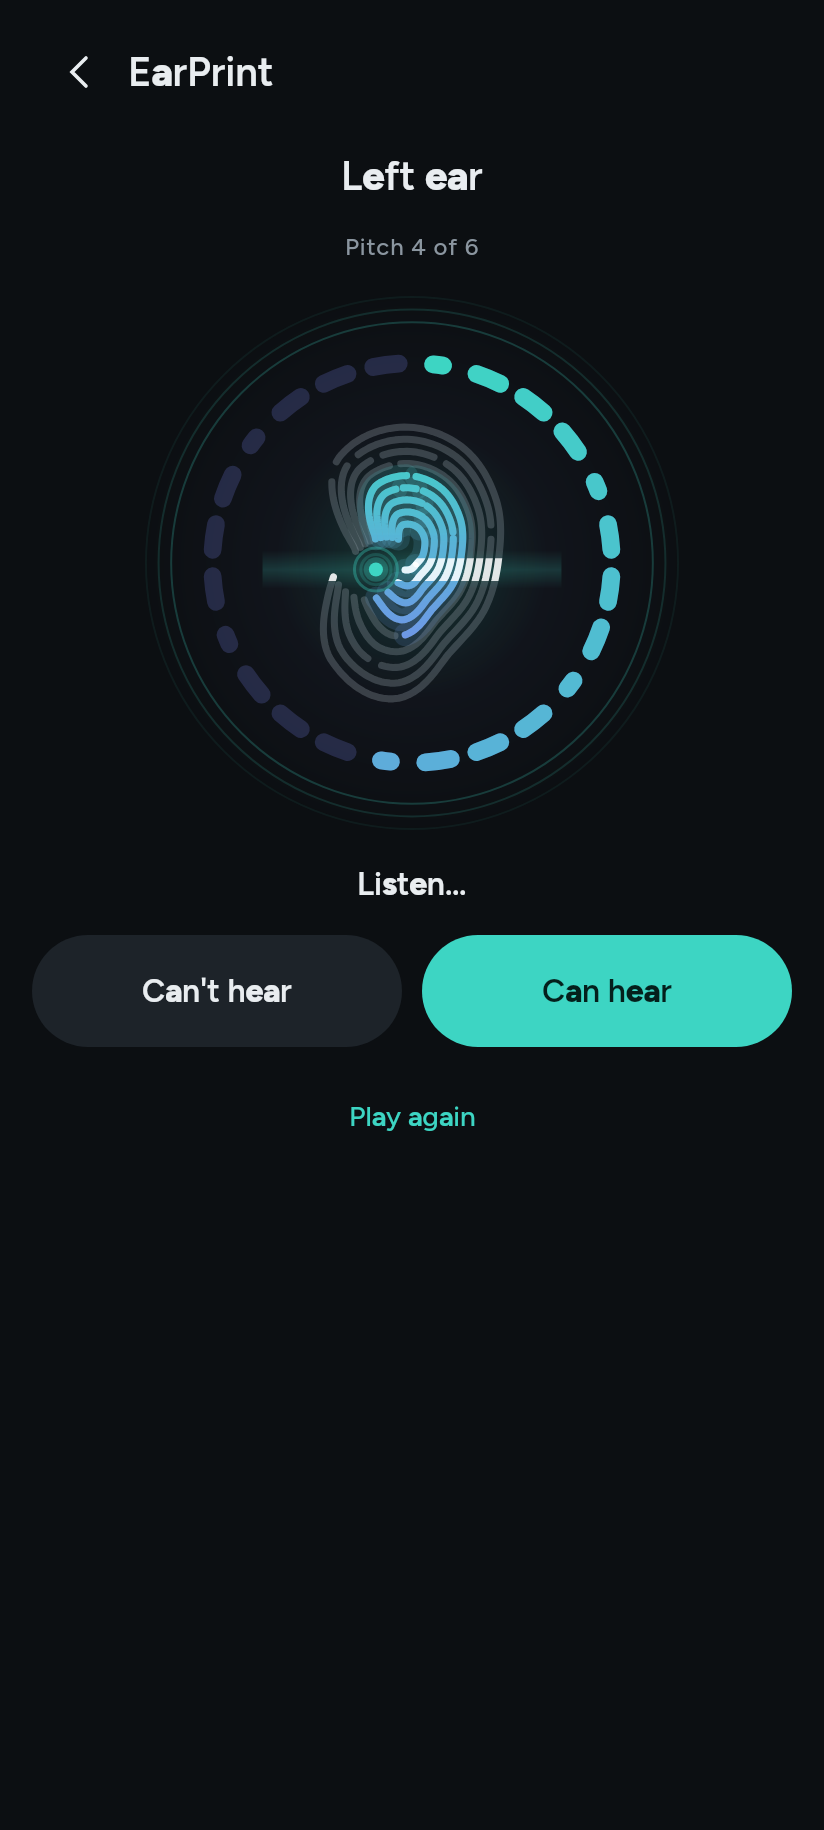
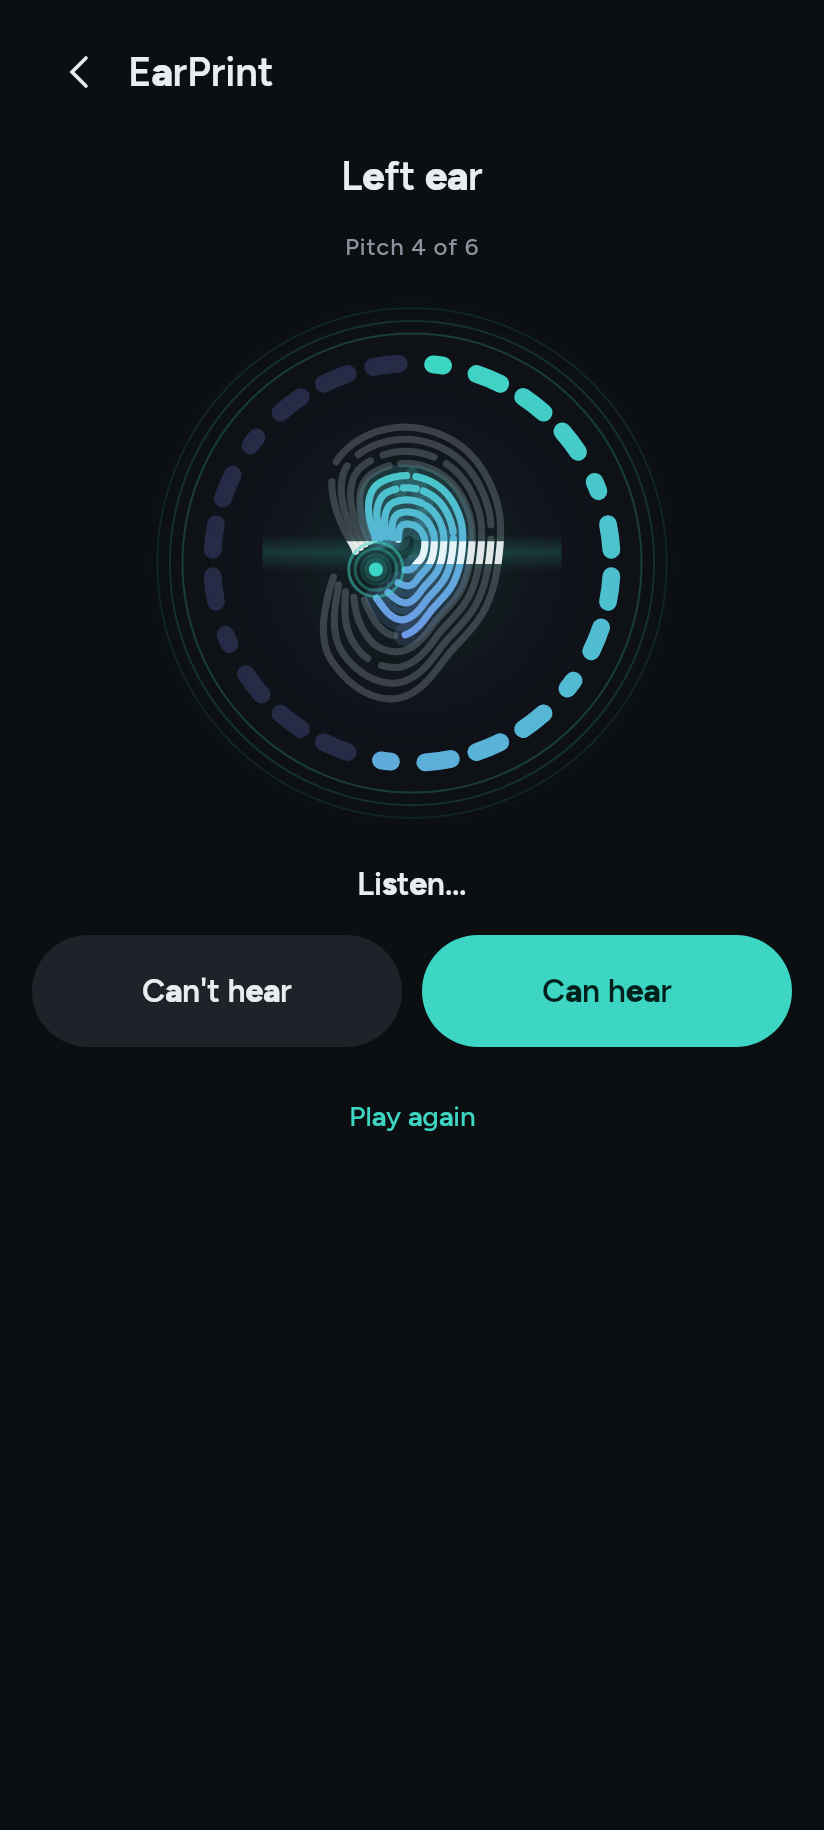
EarPrint starts like a proper check: a picture half ear, half print, then your age, then a live noise meter that waits for a quiet room before the hearing check

diff --git a/ui/src/commonMain/kotlin/com/blazify/buds/ui/screens/EarPrintScreen.kt b/ui/src/commonMain/kotlin/com/blazify/buds/ui/screens/EarPrintScreen.kt
@@ -24,6 +24,11 @@ import androidx.compose.foundation.layout.fillMaxWidth
 import androidx.compose.foundation.layout.height
 import androidx.compose.foundation.layout.padding
 import androidx.compose.foundation.layout.size
+import com.blazify.buds.ui.blocks.EarHalfPrint
+import androidx.compose.ui.text.drawText
+import androidx.compose.ui.geometry.Size
+import androidx.compose.ui.geometry.CornerRadius
+import androidx.compose.foundation.layout.width
 import androidx.compose.foundation.shape.CircleShape
 import androidx.compose.foundation.shape.RoundedCornerShape
 import androidx.compose.material3.Icon
@@ -71,12 +76,13 @@ import kotlinx.coroutines.delay
 import kotlinx.coroutines.withContext
 import kotlin.time.ExperimentalTime
 
-private enum class Stage { Intro, Hearing, Taste, Result }
+private enum class Stage { Intro, Age, Quiet, Hearing, Taste, Result }
 
 /**
- * EarPrint: a sound made for one person's ears, in four calm steps. First a word on what it is, then the hearing check
- * (the ear drawn as a fingerprint fills as it goes), then six rounds of "this or that" over a short beat, and last the
- * sound itself, to compare with the original and keep on the earbuds.
+ * EarPrint: a sound made for one person's ears, in calm steps. A word on what it is; the person's age; a check that
+ * the room is quiet enough, with the noise shown live; the hearing check at full volume (the ear drawn as a
+ * fingerprint fills as it goes); six rounds of "this or that" over a short beat; and last the sound itself, to
+ * compare with the original and keep on the earbuds.
  */
 @OptIn(ExperimentalTime::class)
 @Composable
@@ -84,7 +90,8 @@ fun EarPrintScreen(state: BudsState, change: (Change) -> Unit, back: () -> Unit,
     val palette = LocalPalette.current
     val sound = LocalSoundOut.current
     var stage by remember { mutableStateOf(Stage.Intro) }
-    var age by remember { mutableStateOf(AgeRange.Under30) }
+    var age by remember { mutableStateOf<AgeRange?>(null) }
+    val seed = remember { kotlin.random.Random.nextInt(1000) }
     val hearing = remember { HearingTest() }
     var turn by remember { mutableIntStateOf(0) }
     var left by remember { mutableStateOf(List(8) { 0.0 }) }
@@ -101,14 +108,16 @@ fun EarPrintScreen(state: BudsState, change: (Change) -> Unit, back: () -> Unit,
     }
     // For the readme pictures: jump straight to a later step with made-up answers.
     remember {
-        if (preview >= 1) {
+        if (preview == 4) stage = Stage.Age
+        if (preview == 5) stage = Stage.Quiet
+        if (preview in 1..3) {
             stage = Stage.Hearing
             var n = 0
             while (!hearing.done && (preview > 1 || n < 10)) { hearing.answer(n % 3 != 2); n++ }
         }
-        if (preview >= 2) {
-            left = EarPrint.curve(hearing.thresholds(Ear.Left), age)
-            right = EarPrint.curve(hearing.thresholds(Ear.Right), age)
+        if (preview in 2..3) {
+            left = EarPrint.curve(hearing.thresholds(Ear.Left), age ?: AgeRange.From18)
+            right = EarPrint.curve(hearing.thresholds(Ear.Right), age ?: AgeRange.From18)
             taste = TasteTest(List(8) { 0.0 }).also { t -> repeat(if (preview == 2) 3 else 6) { t.choose(it % 2 == 0) } }
             stage = if (preview == 2) Stage.Taste else Stage.Result
         }
@@ -127,8 +136,8 @@ fun EarPrintScreen(state: BudsState, change: (Change) -> Unit, back: () -> Unit,
     fun finishHearing() {
         change(Change.HearingTestMode(false))
         sound.steadyVolume(false)
-        left = EarPrint.curve(hearing.thresholds(Ear.Left), age)
-        right = EarPrint.curve(hearing.thresholds(Ear.Right), age)
+        left = EarPrint.curve(hearing.thresholds(Ear.Left), age ?: AgeRange.From18)
+        right = EarPrint.curve(hearing.thresholds(Ear.Right), age ?: AgeRange.From18)
         taste = TasteTest(List(8) { 0.0 })
         stage = Stage.Taste
     }
@@ -138,29 +147,32 @@ fun EarPrintScreen(state: BudsState, change: (Change) -> Unit, back: () -> Unit,
             Column(Modifier.fillMaxWidth(), horizontalAlignment = Alignment.CenterHorizontally, verticalArrangement = Arrangement.spacedBy(16.dp)) {
                 when (shown) {
                     Stage.Intro -> {
-                        FingerprintEar(1f, size = 240.dp, done = true)
+                        EarHalfPrint(size = 280.dp, seed = seed)
                         Text("A sound made for your ears", style = MaterialTheme.typography.headlineMedium, color = palette.text, textAlign = TextAlign.Center)
                         Hint("Everyone hears a little differently. EarPrint checks how your ears hear, then shapes the sound to fit, and keeps it on your earbuds.", Modifier.padding(horizontal = 8.dp))
                         Panel {
-                            StepLine(1, "Hearing check", "Beeps at six pitches in each ear. About three minutes.")
-                            StepLine(2, "Your taste", "Six quick choices between two sounds.")
+                            StepLine(1, "A quiet room", "Noise hides the quiet beeps, so the room is checked first.")
+                            StepLine(2, "Hearing check", "Beeps at six pitches in each ear, at full volume. About three minutes.")
+                            StepLine(3, "Your taste", "Six quick choices between two sounds.")
                         }
-                        Panel {
-                            Text("Your age", style = MaterialTheme.typography.titleMedium, color = palette.text)
-                            Spacer(Modifier.height(8.dp))
-                            FlowRow(horizontalArrangement = Arrangement.spacedBy(8.dp), verticalArrangement = Arrangement.spacedBy(8.dp)) {
-                                AgeRange.entries.forEach { range -> Choice(range.label, range == age) { age = range } }
-                            }
-                            Spacer(Modifier.height(8.dp))
-                            Hint("Hearing changes with age; this helps start from the right place.")
-                        }
-                        Hint("Find a quiet place and put both earbuds in. EarPrint shapes sound; it isn't a medical hearing test.", Modifier.padding(horizontal = 8.dp))
-                        BigButton("Start", BudsIcons.Ear) {
-                            change(Change.HearingTestMode(true))
-                            sound.steadyVolume(true)
-                            stage = Stage.Hearing
-                        }
+                        Hint("Put both earbuds in. EarPrint shapes sound; it isn't a medical hearing test.", Modifier.padding(horizontal = 8.dp))
+                        BigButton("Start", BudsIcons.Ear) { stage = Stage.Age }
                     }
+                    Stage.Age -> {
+                        Text("How old are you?", style = MaterialTheme.typography.headlineMedium, color = palette.text, textAlign = TextAlign.Center)
+                        Hint("Hearing of high sounds fades a little with the years; this starts EarPrint from the right place.", Modifier.padding(horizontal = 8.dp))
+                        Column(Modifier.fillMaxWidth(), verticalArrangement = Arrangement.spacedBy(8.dp)) {
+                            AgeRange.entries.forEach { range ->
+                                Choice(range.label, range == age, Modifier.fillMaxWidth(), centered = true) { age = range }
+                            }
+                        }
+                        BigButton("Next", null, enabled = age != null) { stage = Stage.Quiet }
+                    }
+                    Stage.Quiet -> QuietCheck(onReady = {
+                        change(Change.HearingTestMode(true))
+                        sound.steadyVolume(true)
+                        stage = Stage.Hearing
+                    })
                     Stage.Hearing -> {
                         val step = hearing.current()
                         var listening by remember { mutableStateOf(false) }
@@ -402,3 +414,103 @@ private fun Legend(color: Color, label: String) {
     }
 }
 
+
+/**
+ * Is the room quiet enough? The microphone's level, live, on a bar like a sound meter with the line it needs to stay
+ * under. Continue opens once it has been quiet for two seconds; where the room can't be heard, the person decides.
+ */
+@Composable
+private fun QuietCheck(onReady: () -> Unit) {
+    val palette = LocalPalette.current
+    val ear = com.blazify.buds.ui.LocalRoomEar.current
+    var allowed by remember { mutableStateOf<Boolean?>(null) }
+    var level by remember { mutableStateOf<Double?>(null) }
+    var quietSince by remember { mutableStateOf<Long?>(null) }
+    var ready by remember { mutableStateOf(false) }
+    var deaf by remember { mutableStateOf(false) }
+    LaunchedEffect(Unit) { ear.ask { allowed = it } }
+    androidx.compose.runtime.DisposableEffect(allowed) {
+        val stop = if (allowed == true) ear.listen { db ->
+            level = db
+        } else null
+        if (allowed == true && stop == null) deaf = true
+        if (allowed == false) deaf = true
+        onDispose { stop?.invoke() }
+    }
+    // Quiet for two seconds in a row opens the way on.
+    LaunchedEffect(level) {
+        val db = level ?: return@LaunchedEffect
+        if (db < com.blazify.buds.core.earprint.RoomNoise.QUIET) {
+            if (quietSince == null) quietSince = clock()
+        } else {
+            quietSince = null
+            ready = false
+        }
+        quietSince?.let { if (clock() - it >= 2000) ready = true }
+    }
+    Text("Is it quiet here?", style = MaterialTheme.typography.headlineMedium, color = palette.text, textAlign = TextAlign.Center)
+    Hint("Noise hides the quiet beeps and makes the result wrong. Only the loudness is heard; nothing is recorded.", Modifier.padding(horizontal = 8.dp))
+    Row(Modifier.fillMaxWidth().padding(vertical = 8.dp), horizontalArrangement = Arrangement.Center, verticalAlignment = Alignment.CenterVertically) {
+        NoiseBar(level, Modifier.height(240.dp).width(64.dp))
+        Spacer(Modifier.width(28.dp))
+        Column {
+            Text(
+                level?.let { "${it.toInt()}" } ?: "–",
+                style = MaterialTheme.typography.displayLarge.copy(fontFeatureSettings = "tnum"),
+                color = palette.text,
+            )
+            Text("dB around you", style = MaterialTheme.typography.labelLarge, color = palette.muted)
+        }
+    }
+    val quiet = level?.let { it < com.blazify.buds.core.earprint.RoomNoise.QUIET }
+    Text(
+        when {
+            deaf -> "The room can't be heard here. Make sure it's quiet, then continue."
+            level == null -> "Listening to the room…"
+            ready -> "Quiet. Your results will be precise."
+            quiet == true -> "Quiet. Stay still a moment…"
+            else -> "Too noisy. Find a quieter place, away from people, fans and traffic."
+        },
+        style = MaterialTheme.typography.titleMedium,
+        color = when {
+            ready || deaf -> palette.text
+            quiet == false -> palette.low
+            else -> palette.muted
+        },
+        textAlign = TextAlign.Center,
+        modifier = Modifier.padding(horizontal = 12.dp),
+    )
+    BigButton(if (ready || deaf) "Continue" else "Waiting for quiet", null, enabled = ready || deaf, onClick = onReady)
+}
+
+/** Milliseconds on a clock that only goes forward. */
+private val start = kotlin.time.TimeSource.Monotonic.markNow()
+private fun clock(): Long = start.elapsedNow().inWholeMilliseconds
+
+/** A tall bar like a sound meter: green low, amber, red high, with the line to stay under. */
+@Composable
+private fun NoiseBar(level: Double?, modifier: Modifier) {
+    val palette = LocalPalette.current
+    val shown by androidx.compose.animation.core.animateFloatAsState(((level ?: 0.0) / 80.0).toFloat().coerceIn(0f, 1f), tween(120), label = "noise")
+    val measurer = androidx.compose.ui.text.rememberTextMeasurer()
+    val labelStyle = MaterialTheme.typography.labelSmall.copy(color = palette.muted)
+    Canvas(modifier) {
+        val barW = size.width * 0.42f
+        val x = size.width - barW
+        val r = CornerRadius(barW / 2)
+        drawRoundRect(palette.raised, Offset(x, 0f), Size(barW, size.height), r)
+        val fillH = size.height * shown
+        drawRoundRect(
+            Brush.verticalGradient(listOf(palette.low, palette.warn, palette.good), 0f, size.height),
+            Offset(x, size.height - fillH), Size(barW, fillH), r,
+        )
+        // The line to stay under.
+        val limitY = size.height * (1 - (com.blazify.buds.core.earprint.RoomNoise.QUIET / 80.0).toFloat())
+        drawLine(palette.text, Offset(x - 6.dp.toPx(), limitY), Offset(size.width, limitY), strokeWidth = 2.dp.toPx(), cap = StrokeCap.Round)
+        listOf(0, 20, 40, 60, 80).forEach { db ->
+            val y = size.height * (1 - db / 80f)
+            val text = measurer.measure("$db", labelStyle)
+            drawText(text, topLeft = Offset(0f, (y - text.size.height / 2).coerceIn(0f, size.height - text.size.height)))
+        }
+    }
+}

diff --git a/ui/src/commonMain/kotlin/com/blazify/buds/ui/blocks/FingerprintEar.kt b/ui/src/commonMain/kotlin/com/blazify/buds/ui/blocks/FingerprintEar.kt
@@ -26,6 +26,7 @@ import androidx.compose.ui.graphics.luminance
 import androidx.compose.ui.graphics.drawscope.Stroke
 import androidx.compose.ui.graphics.drawscope.clipRect
 import androidx.compose.ui.graphics.drawscope.scale
+import androidx.compose.ui.graphics.drawscope.translate
 import androidx.compose.ui.semantics.contentDescription
 import androidx.compose.ui.semantics.semantics
 import androidx.compose.ui.unit.Dp
@@ -166,6 +167,12 @@ private object EarRidges {
     val canal: Offset
     val width: Float
 
+    /** Every ridge as one unbroken line, outermost first; the first is the ear's outline. */
+    val lines: List<List<Offset>>
+
+    /** The same ear with its breaks in other places, so each print looks a little different. */
+    fun variant(seed: Int): List<Ridge> = lines.mapIndexed { i, points -> Ridge(breakUp(points, i * 31 + seed * 7 + 1)) }
+
     init {
         val raw = (0 until COUNT).map { i ->
             val f = i / (COUNT - 1f)
@@ -192,7 +199,8 @@ private object EarRidges {
         width = (maxX - minX) / h
         fun norm(p: Offset) = Offset((p.x - minX) / h, (p.y - minY) / h)
         canal = norm(Offset(-0.06f, 0.04f))
-        ridges = raw.mapIndexed { i, points -> Ridge(breakUp(points.map(::norm), i)) }
+        lines = raw.map { points -> points.map(::norm) }
+        ridges = lines.mapIndexed { i, points -> Ridge(breakUp(points, i)) }
     }
 
     /** Splits a ridge where a print's ridges end or fork: a couple of short breaks, never in the same place twice. */
@@ -267,3 +275,85 @@ private fun lerp(a: Color, b: Color, t: Float) = Color(
     a.blue + (b.blue - a.blue) * t,
     a.alpha + (b.alpha - a.alpha) * t,
 )
+
+/**
+ * The picture for the start of EarPrint: an ear, half of it a real ear in soft light, the other half its print, with
+ * a line of light between them moving slowly back and forth as if scanning. Each [seed] breaks the print's ridges in
+ * different places, so it is never quite the same twice.
+ */
+@Composable
+fun EarHalfPrint(modifier: Modifier = Modifier, size: Dp = 260.dp, seed: Int = 0) {
+    val palette = LocalPalette.current
+    val reduce = LocalReduceMotion.current
+    val ridges = androidx.compose.runtime.remember(seed) { EarRidges.variant(seed) }
+    val time = rememberInfiniteTransition(label = "halfprint")
+    val sweep by time.animateFloat(0f, 1f, infiniteRepeatable(tween(3600, easing = FastOutSlowInEasing), RepeatMode.Reverse), label = "sweep")
+    val glow by time.animateFloat(0f, 1f, infiniteRepeatable(tween(2200, easing = FastOutSlowInEasing), RepeatMode.Reverse), label = "glow")
+    Canvas(modifier.size(size).semantics { contentDescription = "An ear, half of it drawn as a fingerprint" }) {
+        val c = center
+        val earH = this.size.minDimension * 0.86f
+        val earW = earH * EarRidges.width
+        val earTop = c.y - earH / 2
+        val earLeft = c.x - earW / 2
+        fun at(p: Offset) = Offset(earLeft + p.x * earH, earTop + p.y * earH)
+        val seam = earLeft + earW * (if (reduce) 0.5f else 0.4f + 0.2f * sweep)
+        val bright = palette.accent
+        val deep = palette.cancelling
+        // A soft light behind.
+        drawCircle(Brush.radialGradient(listOf(bright.copy(alpha = 0.10f + 0.06f * glow), Color.Transparent), c, this.size.minDimension / 2), this.size.minDimension / 2, c)
+
+        // The real half: the ear's outline filled like a clay model in light from the upper left.
+        val outline = Path().apply {
+            val pts = EarRidges.lines[0]
+            at(pts[0]).let { moveTo(it.x, it.y) }
+            for (k in 1 until pts.size) at(pts[k]).let { lineTo(it.x, it.y) }
+            close()
+        }
+        val skinLight = Color(0xFFF3DED0)
+        val skin = Color(0xFFDDB9A3)
+        val skinShade = Color(0xFFAF8169)
+        clipRect(right = seam) {
+            drawPath(outline, Brush.radialGradient(listOf(skinLight, skin, skinShade), Offset(earLeft + earW * 0.3f, earTop + earH * 0.25f), earH * 0.85f))
+            // The folds: a shadow in each groove with a little light on its upper edge.
+            val groove = earH * 0.03f
+            listOf(1 to 0.30f, 3 to 0.22f, 5 to 0.16f).forEach { (i, depth) ->
+                val line = EarRidges.lines[i]
+                val path = Path().apply {
+                    at(line[0]).let { moveTo(it.x, it.y) }
+                    for (k in 1 until line.size) at(line[k]).let { lineTo(it.x, it.y) }
+                }
+                drawPath(path, skinShade.copy(alpha = depth), style = Stroke(groove, cap = StrokeCap.Round, join = StrokeJoin.Round))
+                translate(-groove * 0.35f, -groove * 0.35f) {
+                    drawPath(path, Color.White.copy(alpha = depth * 0.9f), style = Stroke(groove * 0.35f, cap = StrokeCap.Round, join = StrokeJoin.Round))
+                }
+            }
+            // The bowl of the ear and the canal, in shadow.
+            val canal = at(EarRidges.canal)
+            drawCircle(Brush.radialGradient(listOf(skinShade.copy(alpha = 0.75f), skinShade.copy(alpha = 0f)), canal, earH * 0.16f), earH * 0.16f, canal)
+            drawCircle(Color(0xFF5A3A2C).copy(alpha = 0.8f), earH * 0.028f, canal)
+            // A gentle rim of light round the edge.
+            drawPath(outline, Color.White.copy(alpha = 0.35f), style = Stroke(earH * 0.008f, join = StrokeJoin.Round))
+        }
+
+        // The print half.
+        clipRect(left = seam) {
+            val brush = Brush.linearGradient(listOf(bright, deep), Offset(c.x, earTop), Offset(c.x, earTop + earH))
+            val width = (earH * 0.022f).coerceAtLeast(1.5f)
+            ridges.forEach { ridge ->
+                ridge.pieces.forEach { piece ->
+                    drawPieceBrush(piece, 0f, 1f, ::at, brush, width * 3f, alpha = 0.14f + 0.08f * glow)
+                    drawPieceBrush(piece, 0f, 1f, ::at, brush, width, alpha = 1f)
+                }
+            }
+            val canal = at(EarRidges.canal)
+            drawCircle(bright, earH * 0.024f, canal)
+        }
+
+        // The scan line between them.
+        drawRect(
+            Brush.horizontalGradient(listOf(Color.Transparent, bright.copy(alpha = 0.35f), Color.Transparent), seam - earH * 0.05f, seam + earH * 0.05f),
+            Offset(seam - earH * 0.05f, earTop - earH * 0.04f), Size(earH * 0.1f, earH * 1.08f),
+        )
+        drawLine(Color.White.copy(alpha = 0.9f), Offset(seam, earTop - earH * 0.03f), Offset(seam, earTop + earH * 1.03f), strokeWidth = 2.dp.toPx(), cap = StrokeCap.Round)
+    }
+}

diff --git a/ui/src/commonMain/kotlin/com/blazify/buds/ui/screens/CareScreens.kt b/ui/src/commonMain/kotlin/com/blazify/buds/ui/screens/CareScreens.kt
@@ -33,6 +33,7 @@ import androidx.compose.runtime.rememberCoroutineScope
 import androidx.compose.runtime.setValue
 import androidx.compose.ui.Alignment
 import androidx.compose.ui.Modifier
+import androidx.compose.ui.graphics.graphicsLayer
 import androidx.compose.ui.draw.clip
 import androidx.compose.ui.draw.drawBehind
 import androidx.compose.ui.graphics.vector.ImageVector
@@ -54,11 +55,12 @@ import kotlinx.coroutines.launch
 
 /** A wide, filled button for the one thing a page is for. */
 @Composable
-fun BigButton(text: String, icon: ImageVector?, modifier: Modifier = Modifier, quiet: Boolean = false, onClick: () -> Unit) {
+fun BigButton(text: String, icon: ImageVector?, modifier: Modifier = Modifier, quiet: Boolean = false, enabled: Boolean = true, onClick: () -> Unit) {
     val palette = LocalPalette.current
     Row(
         modifier.fillMaxWidth().defaultMinSize(minHeight = 56.dp).clip(RoundedCornerShape(28.dp))
-            .background(if (quiet) palette.raised else palette.accent).press(onClick = onClick).padding(horizontal = 20.dp),
+            .background(if (quiet) palette.raised else palette.accent).graphicsLayer { alpha = if (enabled) 1f else 0.4f }
+            .press(enabled = enabled, onClick = onClick).padding(horizontal = 20.dp),
         verticalAlignment = Alignment.CenterVertically,
         horizontalArrangement = Arrangement.Center,
     ) {

diff --git a/ui/src/jvmTest/kotlin/com/blazify/buds/ui/Shots.kt b/ui/src/jvmTest/kotlin/com/blazify/buds/ui/Shots.kt
@@ -83,7 +83,7 @@ class Shots {
                 }
                 BudsApp(buds, mine, startTab = Tab.Sound)
             }
-            listOf("intro", "hearing", "taste", "result").forEachIndexed { step, name ->
+            listOf("intro", "hearing", "taste", "result", "age", "quiet").forEachIndexed { step, name ->
                 shot(dir, "earprint-$name-$look", 412, 915) {
                     val buds = remember { DemoBuds() }
                     BudsTheme(theme) {
